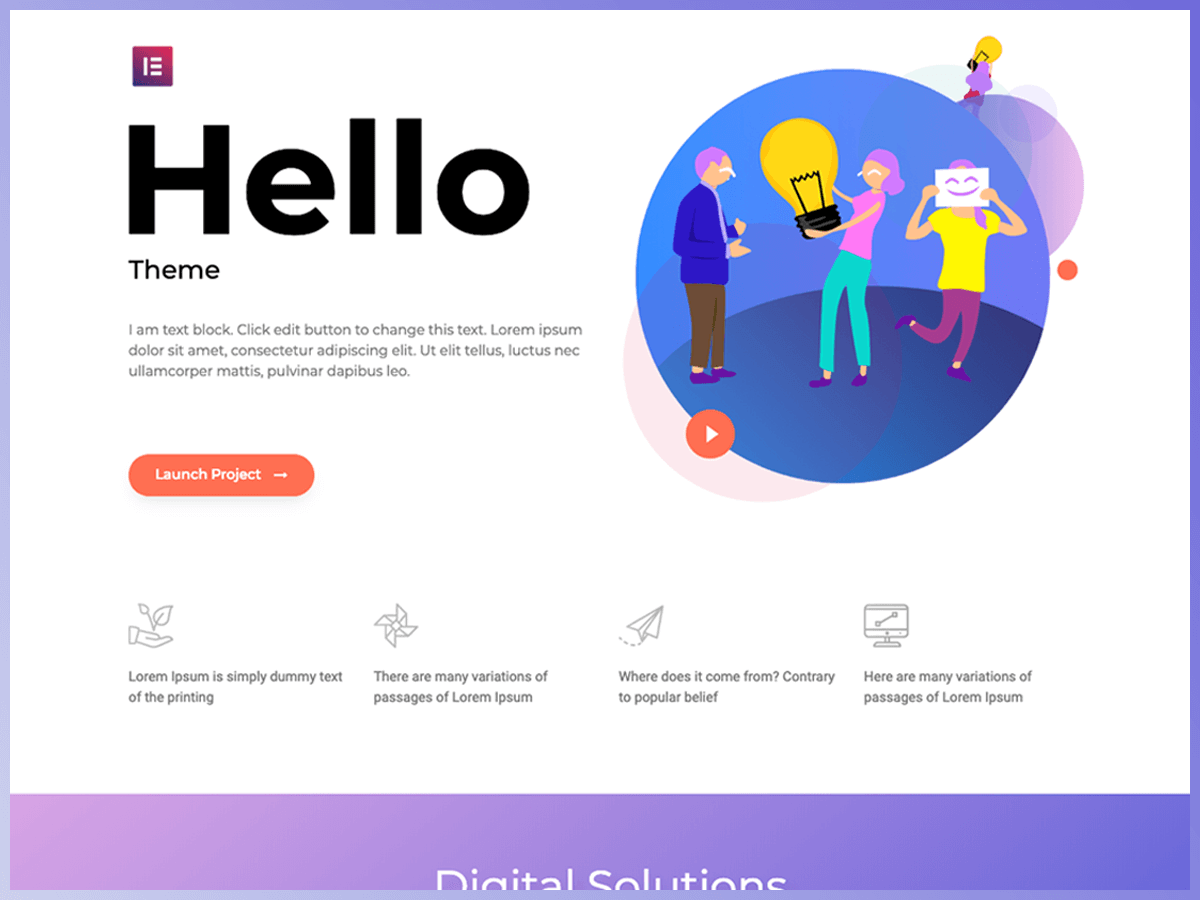
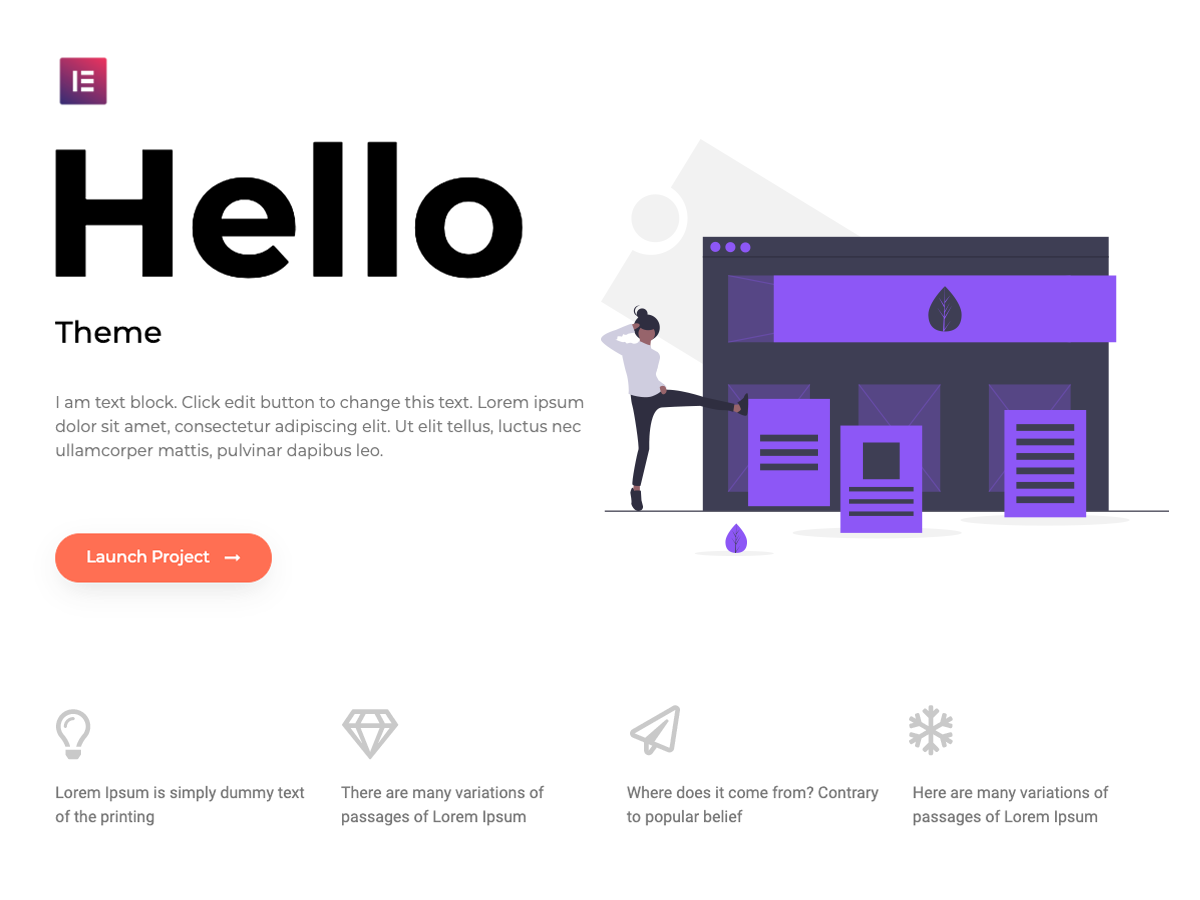
Following comments from WP Theme Review team

diff --git a/style.css b/style.css
@@ -4,10 +4,10 @@
 	Description: A plain-vanilla & lightweight theme for Elementor page builder
 	Author: Elementor Team
 	Author URI: https://elementor.com
-	Version: 1.2.0
-	Stable tag: 1.2.0
+	Version: 1.3.0
+	Stable tag: 1.3.0
 	Requires at least: 4.7
-	Tested up to: 5.0
+	Tested up to: 5.1.1
 	License: GNU General Public License v3 or later.
 	License URI: https://www.gnu.org/licenses/gpl-3.0.html
 	Text Domain: hello-elementor
@@ -707,11 +707,11 @@ to override any of the settings in this section, add your styling code in the cu
    ========================================================================== */
 .alignright {
   float: right;
-  margin-right: 1rem; }
+  margin-left: 1rem; }
 
 .alignleft {
   float: left;
-  margin-left: 1rem; }
+  margin-right: 1rem; }
 
 .aligncenter {
   clear: both;

diff --git a/assets/scss/style.scss b/assets/scss/style.scss
@@ -4,10 +4,10 @@
 	Description: A plain-vanilla & lightweight theme for Elementor page builder
 	Author: Elementor Team
 	Author URI: https://elementor.com
-	Version: 1.2.0
-	Stable tag: 1.2.0
+	Version: 1.3.0
+	Stable tag: 1.3.0
 	Requires at least: 4.7
-	Tested up to: 5.0
+	Tested up to: 5.1.1
 	License: GNU General Public License v3 or later.
 	License URI: https://www.gnu.org/licenses/gpl-3.0.html
 	Text Domain: hello-elementor

diff --git a/functions.php b/functions.php
@@ -15,21 +15,20 @@ if ( ! isset( $content_width ) ) {
 /*
  * Set up theme support
  */
-if ( ! function_exists( 'hello_elementor_theme_setup' ) ) {
-	function hello_elementor_theme_setup() {
-		if ( apply_filters( 'hello_elementor_theme_load_textdomain', true ) ) {
-			load_theme_textdomain( 'elementor-hello-theme', get_template_directory() . '/languages' );
+if ( ! function_exists( 'hello_elementor_setup' ) ) {
+	function hello_elementor_setup() {
+		if ( apply_filters( 'hello_elementor_load_textdomain', true ) ) {
+			load_theme_textdomain( 'hello-elementor', get_template_directory() . '/languages' );
 		}
 
-		if ( apply_filters( 'hello_elementor_theme_register_menus', true ) ) {
+		if ( apply_filters( 'hello_elementor_register_menus', true ) ) {
 			register_nav_menus( array( 'menu-1' => __( 'Primary', 'hello-elementor' ) ) );
 		}
 
-		if ( apply_filters( 'hello_elementor_theme_add_theme_support', true ) ) {
+		if ( apply_filters( 'hello_elementor_add_theme_support', true ) ) {
 			add_theme_support( 'post-thumbnails' );
 			add_theme_support( 'automatic-feed-links' );
 			add_theme_support( 'title-tag' );
-			add_theme_support( 'custom-logo' );
 			add_theme_support( 'html5', array(
 				'search-form',
 				'comment-form',
@@ -52,7 +51,7 @@ if ( ! function_exists( 'hello_elementor_theme_setup' ) ) {
 			/*
 			 * WooCommerce
 			 */
-			if ( apply_filters( 'hello_elementor_theme_add_woocommerce_support', true ) ) {
+			if ( apply_filters( 'hello_elementor_add_woocommerce_support', true ) ) {
 				// WooCommerce in general:
 				add_theme_support( 'woocommerce' );
 				// Enabling WooCommerce product gallery features (are off by default since WC 3.0.0):
@@ -66,28 +65,28 @@ if ( ! function_exists( 'hello_elementor_theme_setup' ) ) {
 		}
 	}
 }
-add_action( 'after_setup_theme', 'hello_elementor_theme_setup' );
+add_action( 'after_setup_theme', 'hello_elementor_setup' );
 
 /*
  * Theme Scripts & Styles
  */
-if ( ! function_exists( 'hello_elementor_theme_scripts_styles' ) ) {
-	function hello_elementor_theme_scripts_styles() {
-		if ( apply_filters( 'hello_elementor_theme_enqueue_style', true ) ) {
-			wp_enqueue_style( 'elementor-hello-theme-style', get_stylesheet_uri() );
+if ( ! function_exists( 'hello_elementor_scripts_styles' ) ) {
+	function hello_elementor_scripts_styles() {
+		if ( apply_filters( 'hello_elementor_enqueue_style', true ) ) {
+			wp_enqueue_style( 'elementor-hello-style', get_stylesheet_uri() );
 		}
 	}
 }
-add_action( 'wp_enqueue_scripts', 'hello_elementor_theme_scripts_styles' );
+add_action( 'wp_enqueue_scripts', 'hello_elementor_scripts_styles' );
 
 /*
  * Register Elementor Locations
  */
-if ( ! function_exists( 'hello_elementor_theme_register_elementor_locations' ) ) {
-	function hello_elementor_theme_register_elementor_locations( $elementor_theme_manager ) {
-		if ( apply_filters( 'hello_elementor_theme_register_elementor_locations', true ) ) {
+if ( ! function_exists( 'hello_elementor_register_elementor_locations' ) ) {
+	function hello_elementor_register_elementor_locations( $elementor_theme_manager ) {
+		if ( apply_filters( 'hello_elementor_register_elementor_locations', true ) ) {
 			$elementor_theme_manager->register_all_core_location();
 		}
 	}
 }
-add_action( 'elementor/theme/register_locations', 'hello_elementor_theme_register_elementor_locations' );
+add_action( 'elementor/theme/register_locations', 'hello_elementor_register_elementor_locations' );

diff --git a/README.md b/README.md
@@ -4,65 +4,92 @@
 
 **Contributors:** [elemntor](https://profiles.wordpress.org/elemntor)  
 **Requires at least:** WordPress 4.7  
-**Tested up to:** WordPress 5.0  
-**Stable tag:** 1.2.0  
-**Version:** 1.2.0  
+**Tested up to:** WordPress 5.1.1  
+**Stable tag:** 1.3.0  
+**Version:** 1.3.0  
 **Requires PHP:** 5.4  
 **License:** GNU General Public License v3 or later  
 **License URI:** https://www.gnu.org/licenses/gpl-3.0.html  
 **Tags:** flexible-header, accessibility-ready, custom-colors, custom-menu, custom-logo, editor-style, featured-images, rtl-language-support, threaded-comments, translation-ready  
 
-A plain-vanilla & lightweight theme for Elementor page builder.
+A lightweight, plain-vanilla theme for Elementor page builder.
+
+## Copyright ##
+
+This theme, like WordPress, is licensed under the GPL.
+Use it as your springboard to building a site with ***Elementor***.
+
+***Hello Elementor*** is distributed under the terms of the GNU GPL v3 or later.
 
 ## Description ##
 
-A plain-vanilla & lightweight theme, best suited for building your site using Elementor page builder.
+A basic, plain-vanilla, lightweight theme, best suited for building your site using Elementor page builder.
 
-This theme resets the environment and prepares it for smooth operation of Elementor.
+This theme resets the WordPress environment and prepares it for smooth operation of Elementor.
 
-If you wish to customize your site, just use **Elementor!**.
+Screenshot's images & icons are licensed under: Creative Commons (CC0), https://creativecommons.org/publicdomain/zero/1.0/legalcode
 
-### Hooks ###
+## Installation ##
 
-To prevent the loading of any of the following settings, add the following code to your child-theme functions.php:
+1. In your admin panel, go to Appearance > Themes and click the 'Add New' button.
+2. Type in 'Hello Elementor' in the search form and hit the 'Enter' key on your keyboard.
+3. Click on the 'Activate' button to use your new theme right away.
+4. Navigate to Elementor and start building your site.
 
-`add_filter( 'choose-from-the-list-below', '__return_false' );`
+## Customizations ##
 
-* `elementor_hello_theme_load_textdomain`               load theme's textdomain
-* `elementor_hello_theme_register_menus`                register the theme's default menu location
-* `elementor_hello_theme_add_theme_support`             register the various supported features
-* `elementor_hello_theme_add_woocommerce_support`       register woocommerce features, including product-gallery zoom, swipe & lightbox features
-* `elementor_hello_theme_enqueue_style`                 enqueue style
-* `elementor_hello_theme_register_elementor_locations`  register elementor settings
+Most users will not need to edit the files for customizing this theme.
+To customize your site's appearance, simply use ***Elementor***.
 
-### Style ###
+However, if you have a particular need to adapt this theme, please read on.
 
-In order to change the styling used throughout the site, use **Elementor**.
+### Style & Stylesheets ###
 
-However, if for some reason there is still a need to add or change the site's CSS, please take into account the following:
+All of your site's styles should be handled directly inside ***Elementor***.
+You should not need to edit the SCSS files in this theme in ordinary circumstances.
+
+However, if for some reason there is still a need to add or change the site's CSS, please pay attention to the following:
 
 1. Files located under `reset` directory, should **NOT** be edited directly
 2. In order to change any of the values defined in `preset/variables.scss`, add your style code to `custom/pre_default.scss`
 3. Any new SCSS files should be located under `custom/` directory, and imported in `custom/custom.scss`
 
-## Installation ##
+**Remember that any SCSS change requires re-generating the theme's css files.**
 
-1. In your admin panel, go to Appearance > Themes and click the 'Add New' button.
-2. Type in 'Elementor Hello' in the search form and hit the 'Enter' key on your keyboard.
-3. Click on the 'Activate' button to use your new theme right away.
-4. Navigate to Elementor and start building your site.
+### Hooks ###
+
+To prevent the loading of any of the these settings, use the following as boilerplate and add the code to your child-theme `functions.php`:
+```php
+add_filter( 'choose-from-the-list-below', '__return_false' );
+```
+
+* `hello_elementor_load_textdomain`               load theme's textdomain
+* `hello_elementor_register_menus`                register the theme's default menu location
+* `hello_elementor_add_theme_support`             register the various supported features
+* `hello_elementor_add_woocommerce_support`       register woocommerce features, including product-gallery zoom, swipe & lightbox features
+* `hello_elementor_enqueue_style`                 enqueue style
+* `hello_elementor_register_elementor_locations`  register elementor settings
 
 ## Frequently Asked Questions ##
 
 **Does this theme support any plugins?**
 
-Elementor Hello Theme includes support for WooCommerce.
+Hello Elementor includes support for WooCommerce.
 
-**Can Font Style be added thru the theme's css file?**
+**Can Font Styles be added thru the theme's css file?**
 
-Best practice is to use the styling capabilities in the Elementor plugin.
+Yes, ***but*** best practice is to use the styling capabilities in the Elementor plugin.
 
 ## Changelog ##
+
+### 1.3.0 - 2019-05-12 ###
+* Tweak: Updated theme screenshot (following comment by WP Theme Review team).
+* Tweak: Add Copyright & Image and Icon License sections in readme (following comment by WP Theme Review team).
+* Tweak: Change functions.php methods names prefix from `hello_elementor_theme_` to `hello_elementor_`.
+* Tweak: Remove duplicated call to `add_theme_support( 'custom-logo')`
+* Tweak: Readme file grammar & spelling.
+* Tweak: Update `Tested Up to`.
+* Tweak: Hook names.
 
 ### 1.2.0 - 2019-02-12 ###
 * New: Added editor-style.css for Classic editor
@@ -88,3 +115,20 @@ Best practice is to use the styling capabilities in the Elementor plugin.
 
 ### 1.0.0 - 2018-03-19 ###
 * Initial Public Release
+
+------------------------------------------------------------------------------
+Image & Icon License
+------------------------------------------------------------------------------
+https://undraw.co/license
+
+https://undraw.co
+
+https://42f2671d685f51e10fc6-b9fcecea3e50b3b59bdc28dead054ebc.ssl.cf5.rackcdn.com/illustrations/landing_page_q6hh.svg
+
+https://fontawesome.com/icons/lightbulb?style=regular
+
+https://fontawesome.com/icons/gem?style=regular
+
+https://fontawesome.com/icons/paper-plane?style=regular
+
+https://fontawesome.com/icons/snowflake?style=regular
